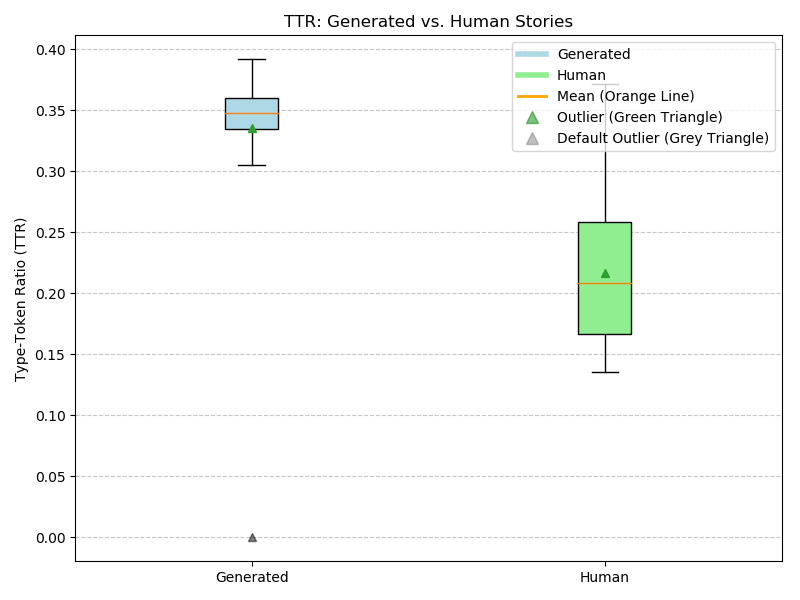
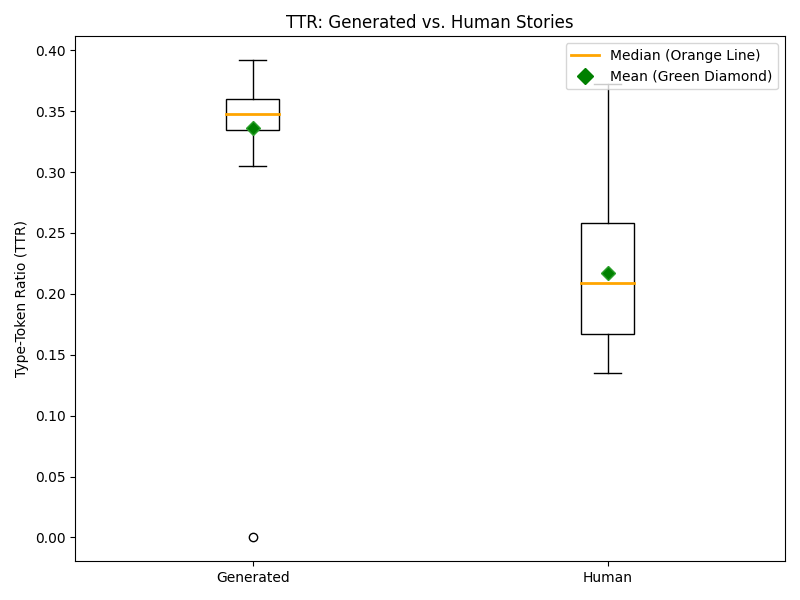
uniform data vis part 1

diff --git a/feature-scripts/brevity-conciseness/brevity_conciseness_vis.py b/feature-scripts/brevity-conciseness/brevity_conciseness_vis.py
@@ -7,6 +7,7 @@ import numpy as np
 # Define file paths for results
 human_results_path = "/Users/sgiannuzzi/Desktop/thesis/feature-scripts/brevity-conciseness/results/human_results.txt"
 generated_results_path = "/Users/sgiannuzzi/Desktop/thesis/feature-scripts/brevity-conciseness/results/generated_results.txt"
+output_folder = "/Users/sgiannuzzi/Desktop/thesis/feature-scripts/brevity-conciseness/results"
 
 def parse_results(file_path):
     """
@@ -85,7 +86,7 @@ def calculate_per_story_averages(data):
 
     return pos_data, word_counts, character_counts, words_per_sentence, unnecessary_words
 
-def create_bar_whisker_plot(data_human, data_generated, label):
+def create_bar_whisker_plot(data_human, data_generated, label, output_filename):
     """
     Creates a bar and whisker plot for a specific metric.
 
@@ -93,29 +94,32 @@ def create_bar_whisker_plot(data_human, data_generated, label):
         data_human (list): List of percentages for human-written works.
         data_generated (list): List of percentages for generated works.
         label (str): The label for the metric to visualize.
+        output_filename (str): Filename to save the plot.
 
     Returns:
         None.
     """
     data = [data_human, data_generated]
-    boxprops = dict(facecolor="lightblue", color="black")
-    meanprops = dict(marker='o', markerfacecolor='red', markersize=5, linestyle='none', color='red')
-    medianprops = dict(color='blue', linewidth=2)
+    boxprops = dict(facecolor="white", color="black")
+    meanprops = dict(marker='D', markerfacecolor='green', markersize=7, linestyle='none', color='green')
+    medianprops = dict(color='orange', linewidth=2)
 
+    plt.figure(figsize=(8, 6))
     plt.boxplot(data, labels=["Human", "Generated"], showmeans=True, meanprops=meanprops, medianprops=medianprops, patch_artist=True, boxprops=boxprops)
     plt.title(f"Distribution of {label} (Percentage per Story)")
     plt.ylabel("Percentage")
 
     # Add a legend for the plot elements
     legend_elements = [
-        mpatches.Patch(facecolor='lightblue', edgecolor='black', label='Box (Interquartile Range)'),
-        plt.Line2D([0], [0], color='blue', lw=2, label='Median (Blue Line)'),
-        plt.Line2D([0], [0], marker='o', color='red', label='Mean (Red Dot)', linestyle='None', markersize=8)
+        mpatches.Patch(facecolor='white', edgecolor='black', label='Box (Interquartile Range)'),
+        plt.Line2D([0], [0], color='orange', lw=2, label='Median (Orange Line)'),
+        plt.Line2D([0], [0], marker='D', color='green', label='Mean (Green Diamond)', linestyle='None', markersize=8)
     ]
     plt.legend(handles=legend_elements, loc='upper right')
 
     plt.tight_layout()
-    plt.show()
+    plt.savefig(os.path.join(output_folder, output_filename))
+    plt.close()
 
 def create_data_table(data_human, data_generated, human_stats, generated_stats, human_unnecessary, generated_unnecessary):
     """
@@ -151,7 +155,7 @@ def create_data_table(data_human, data_generated, human_stats, generated_stats, 
     })
 
     print(data_table)
-    data_table.to_csv("relative_averages.csv", index=False)
+    data_table.to_csv(os.path.join(output_folder, "relative_averages.csv"), index=False)
 
 if __name__ == "__main__":
     human_data = parse_results(human_results_path)
@@ -165,10 +169,10 @@ if __name__ == "__main__":
 
     # Create bar and whisker plots for target parts of speech
     for pos_tag in target_pos_tags:
-        create_bar_whisker_plot(human_pos_data[pos_tag], generated_pos_data[pos_tag], pos_tag)
+        create_bar_whisker_plot(human_pos_data[pos_tag], generated_pos_data[pos_tag], pos_tag, f"{pos_tag}_distribution.png")
 
     # Create bar and whisker plot for unnecessary words
-    create_bar_whisker_plot(human_unnecessary, generated_unnecessary, "Unnecessary Words")
+    create_bar_whisker_plot(human_unnecessary, generated_unnecessary, "Unnecessary Words", "unnecessary_words_distribution.png")
 
     # Create data table for relative averages
     create_data_table(human_pos_data, generated_pos_data, 

diff --git a/feature-scripts/unity-singleeffect/unity-singleeffect-vis.py b/feature-scripts/unity-singleeffect/unity-singleeffect-vis.py
@@ -4,6 +4,7 @@ import os
 # Paths to results files
 generated_results_path = "/Users/sgiannuzzi/Desktop/thesis/feature-scripts/unity-singleeffect/results/generated_results.txt"
 human_results_path = "/Users/sgiannuzzi/Desktop/thesis/feature-scripts/unity-singleeffect/results/human_results.txt"
+output_folder = "/Users/sgiannuzzi/Desktop/thesis/feature-scripts/unity-singleeffect/results"
 
 def parse_results(file_path):
     """
@@ -24,36 +25,30 @@ def parse_results(file_path):
 
     return ttr_values, vvi_values, distance_values
 
-def create_boxplot(data, labels, title, ylabel, output_path):
+def create_boxplot(data, labels, title, ylabel, output_filename):
     """
     Create a box-and-whisker plot.
     """
     plt.figure(figsize=(8, 6))
-    box = plt.boxplot(data, labels=labels, patch_artist=True, showmeans=True, 
-                      meanprops=dict(linestyle='-', color='orange', linewidth=2), 
-                      flierprops=dict(marker='^', color='green', alpha=0.5))
+    boxprops = dict(facecolor="white", color="black")
+    meanprops = dict(marker='D', markerfacecolor='green', markersize=7, linestyle='none', color='green')
+    medianprops = dict(color='orange', linewidth=2)
 
-    # Customize box colors
-    colors = ['lightblue', 'lightgreen']
-    for patch, color in zip(box['boxes'], colors):
-        patch.set_facecolor(color)
+    plt.boxplot(data, labels=labels, patch_artist=True, showmeans=True, 
+                meanprops=meanprops, medianprops=medianprops, boxprops=boxprops)
 
     plt.title(title)
     plt.ylabel(ylabel)
-    plt.grid(axis='y', linestyle='--', alpha=0.7)
 
     # Add a legend
-    plt.legend([
-        plt.Line2D([0], [0], color='lightblue', lw=4),
-        plt.Line2D([0], [0], color='lightgreen', lw=4),
-        plt.Line2D([0], [0], color='orange', linestyle='-', lw=2),
-        plt.Line2D([0], [0], color='green', marker='^', linestyle='', markersize=8, alpha=0.5),
-        plt.Line2D([0], [0], color='grey', marker='^', linestyle='', markersize=8, alpha=0.5)
-    ], 
-               ["Generated", "Human", "Mean (Orange Line)", "Outlier (Green Triangle)", "Default Outlier (Grey Triangle)"], loc='upper right')
+    legend_elements = [
+        plt.Line2D([0], [0], color='orange', lw=2, label='Median (Orange Line)'),
+        plt.Line2D([0], [0], marker='D', color='green', label='Mean (Green Diamond)', linestyle='None', markersize=8)
+    ]
+    plt.legend(handles=legend_elements, loc='upper right')
 
     plt.tight_layout()
-    plt.savefig(output_path)
+    plt.savefig(os.path.join(output_folder, output_filename))
     plt.close()
 
 def main():
@@ -75,7 +70,7 @@ def main():
         labels, 
         "TTR: Generated vs. Human Stories", 
         "Type-Token Ratio (TTR)", 
-        "/Users/sgiannuzzi/Desktop/thesis/feature-scripts/unity-singleeffect/results/ttr_boxplot.png"
+        "ttr_boxplot.png"
     )
 
     # Create VVI plot
@@ -84,7 +79,7 @@ def main():
         labels, 
         "VVI: Generated vs. Human Stories", 
         "Verbal Variety Index (VVI)", 
-        "/Users/sgiannuzzi/Desktop/thesis/feature-scripts/unity-singleeffect/results/vvi_boxplot.png"
+        "vvi_boxplot.png"
     )
 
     # Create Average Paragraph Distance plot
@@ -93,7 +88,7 @@ def main():
         labels, 
         "Average Paragraph Distance: Generated vs. Human Stories", 
         "Average Euclidean Distance", 
-        "/Users/sgiannuzzi/Desktop/thesis/feature-scripts/unity-singleeffect/results/distance_boxplot.png"
+        "distance_boxplot.png"
     )
 
     print("Plots generated and saved!")
